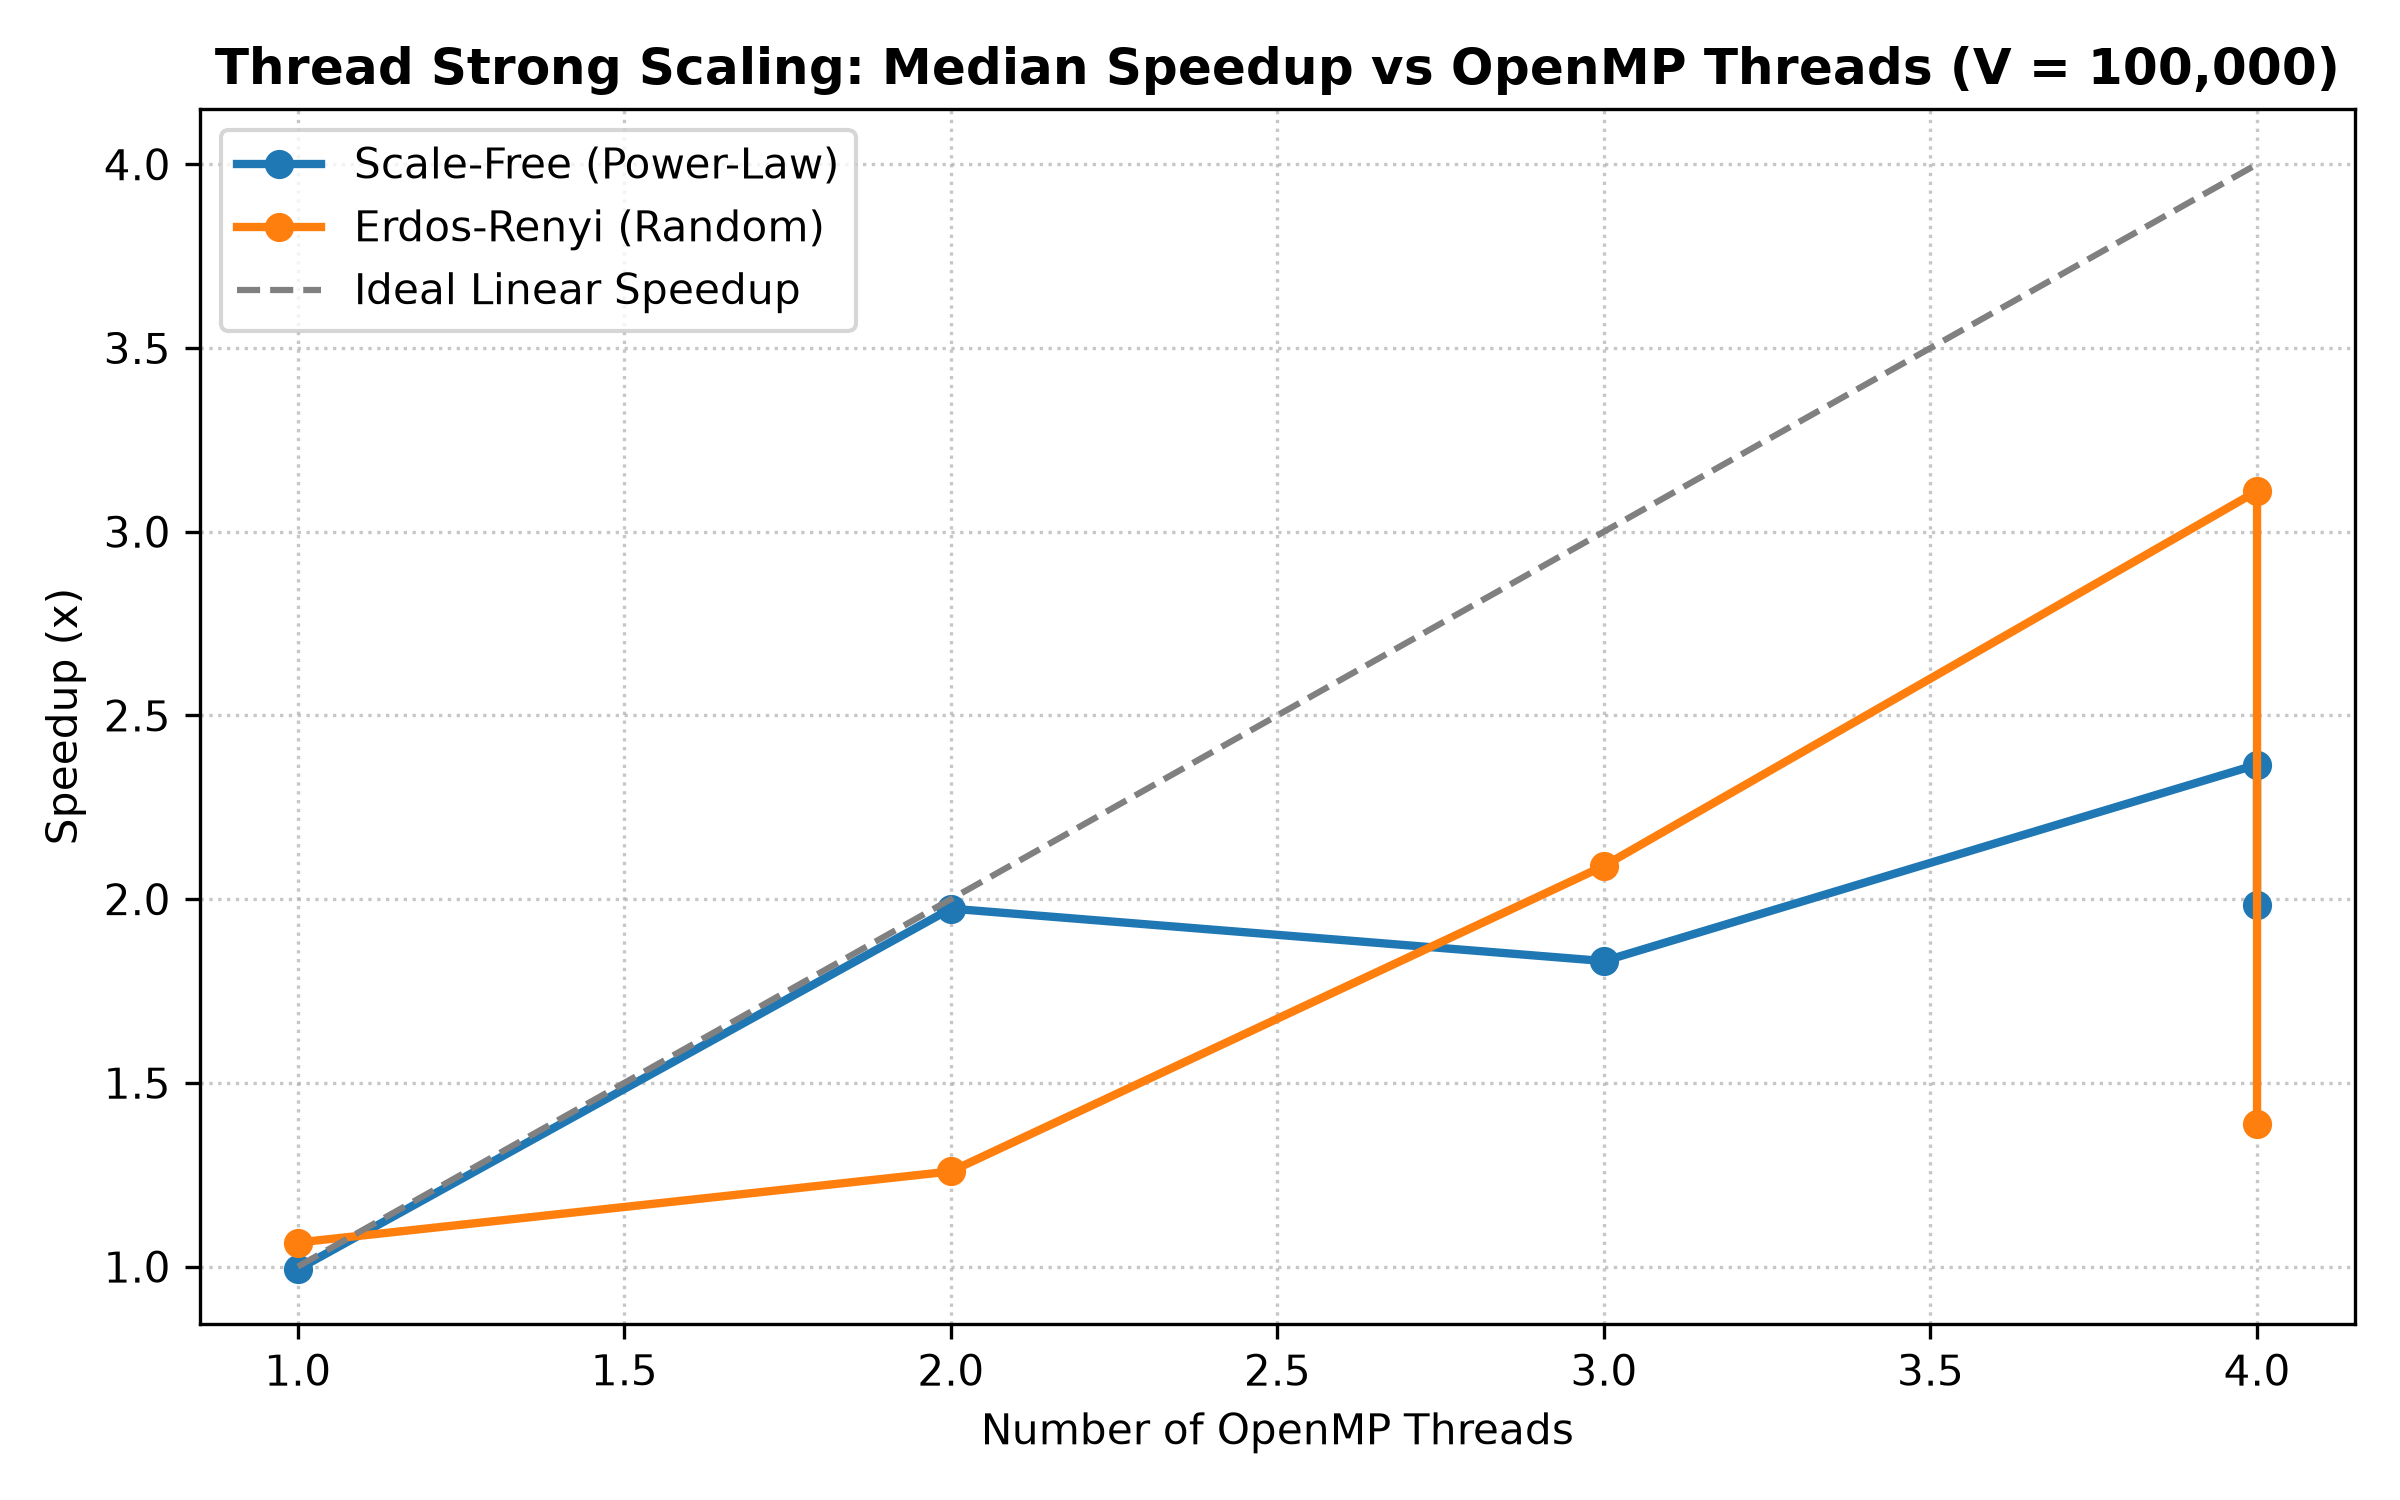
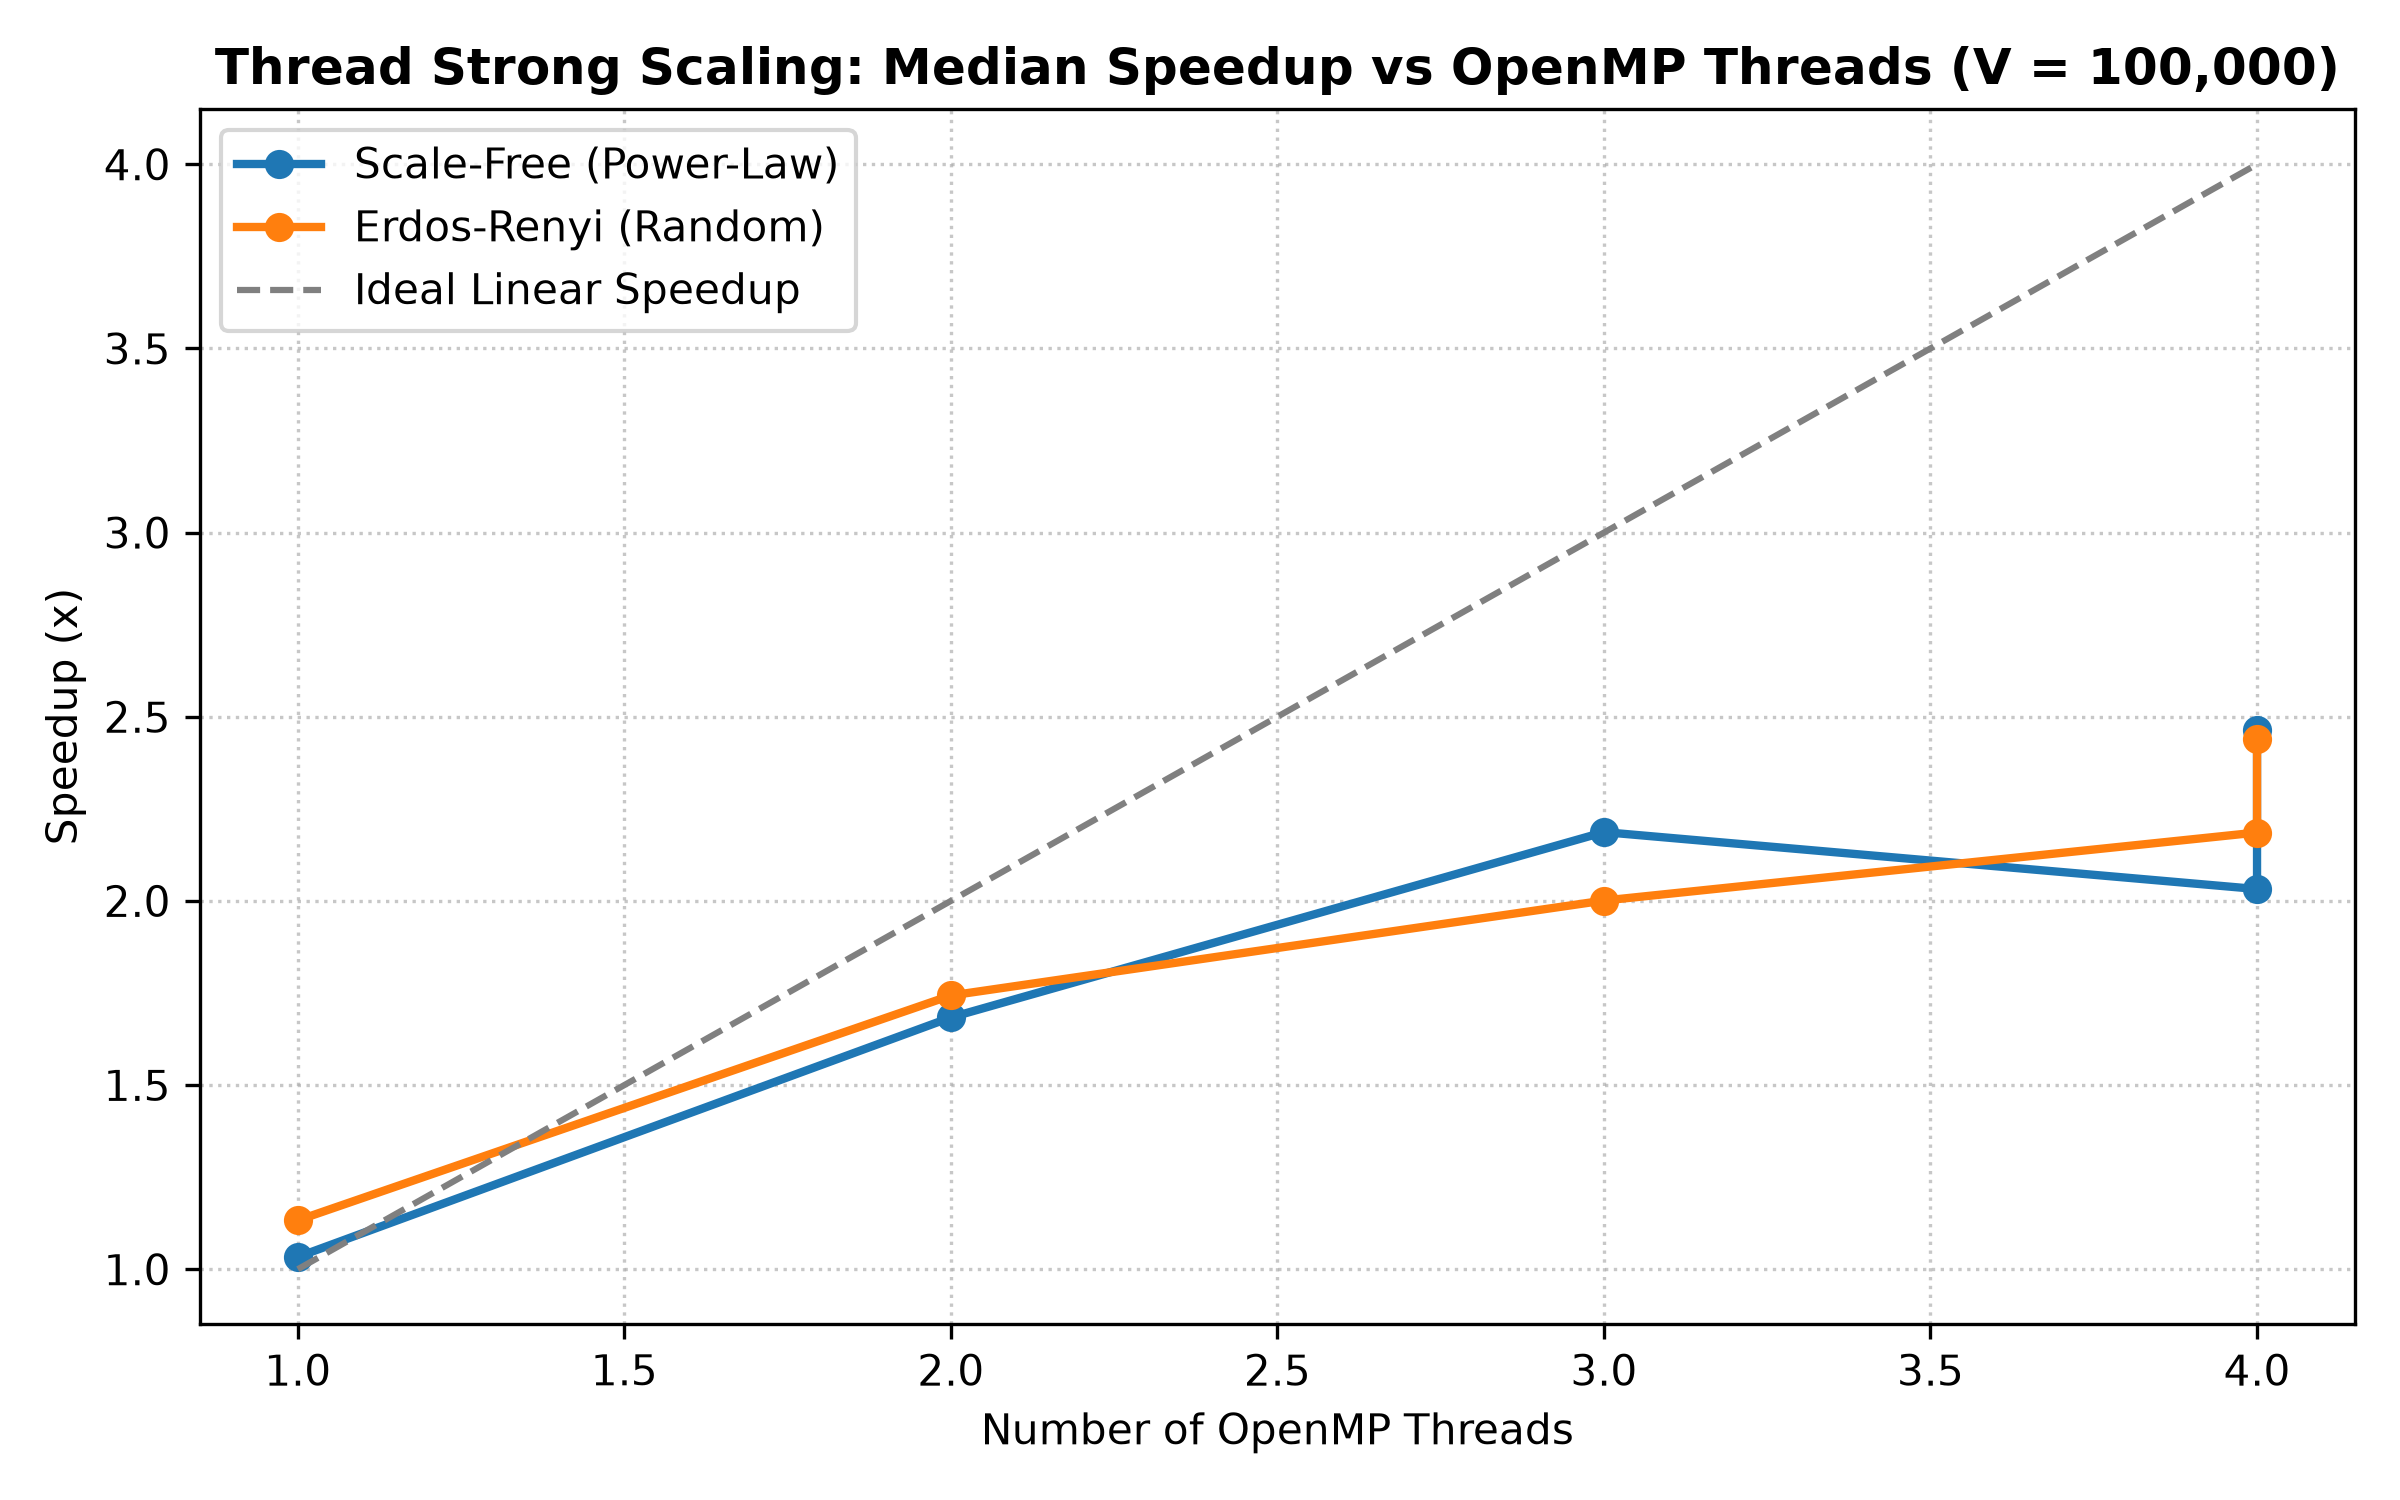
Add side-by-side sequential and parallel BFS distance output printing and enforce strict correctness gate before performance calculation

diff --git a/src/main.cpp b/src/main.cpp
@@ -10,11 +10,12 @@ void print_usage(const char* prog_name) {
     std::cout << "Usage: " << prog_name << " [options]\n"
               << "Options:\n"
               << "  -type <erdos|scale_free>  Graph type (default: scale_free)\n"
-              << "  -v <num_vertices>         Number of vertices (default: 100000)\n"
+              << "  -v <num_vertices>         Number of vertices (default: 100000, try 10 for small output)\n"
               << "  -d <avg_degree>           Average degree (default: 16)\n"
               << "  -threads <num_threads>    Number of OpenMP threads (default: max cores)\n"
               << "  -seed <seed_val>          Random seed (default: 42)\n"
               << "  -runs <num_repeats>       Number of repeated runs for median timing (default: 5)\n"
+              << "  -print                    Print full distance vectors for all vertices\n"
               << "  -test                     Run edge-case and multi-thread stress unit tests\n"
               << "  -csv                      Output single CSV line format for benchmarking\n";
 }
@@ -28,6 +29,7 @@ int main(int argc, char* argv[]) {
     int num_runs = 5;
     bool csv_mode = false;
     bool run_tests = false;
+    bool force_print = false;
 
     for (int i = 1; i < argc; ++i) {
         std::string arg = argv[i];
@@ -43,6 +45,8 @@ int main(int argc, char* argv[]) {
             seed = std::atoi(argv[++i]);
         } else if (arg == "-runs" && i + 1 < argc) {
             num_runs = std::atoi(argv[++i]);
+        } else if (arg == "-print") {
+            force_print = true;
         } else if (arg == "-test") {
             run_tests = true;
         } else if (arg == "-csv") {
@@ -58,7 +62,7 @@ int main(int argc, char* argv[]) {
         return passed ? 0 : 1;
     }
 
-    // Input validation guard against invalid parameters (-threads 0, -runs 0, negative values)
+    // Input validation guard against invalid parameters
     if (V <= 0 || avg_degree <= 0 || num_threads <= 0 || num_runs <= 0) {
         std::cerr << "Error: Invalid parameter value. -v, -d, -threads, and -runs must be positive integers (> 0).\n";
         print_usage(argv[0]);
@@ -73,12 +77,10 @@ int main(int argc, char* argv[]) {
         graph = CSRGraph::generate_scale_free(V, avg_degree / 2, seed);
     }
 
-    // Exact theoretical CSR memory footprint calculation (binary megabytes: MiB = 1024^2 bytes)
+    // Memory footprint calculations
     size_t csr_bytes = (graph.offsets.size() * sizeof(long long)) + (graph.edges.size() * sizeof(int));
     double csr_mem_mib = csr_bytes / (1024.0 * 1024.0);
 
-    // Exact theoretical Adjacency List memory footprint (std::vector<std::vector<int>>)
-    // Header per vertex = 24 bytes (vector header) + destination edges = 4 bytes per edge
     size_t adj_list_bytes = (graph.num_vertices * sizeof(std::vector<int>)) + (graph.num_edges * sizeof(int));
     double adj_list_mem_mib = adj_list_bytes / (1024.0 * 1024.0);
     double exact_mem_savings_pct = (1.0 - (static_cast<double>(csr_bytes) / static_cast<double>(adj_list_bytes))) * 100.0;
@@ -98,10 +100,59 @@ int main(int argc, char* argv[]) {
     // 3. Run OpenMP Parallel BFS (1 Warm-up + N repeats -> Verifies ALL runs against sequential baseline)
     BFSResult par_res = run_bfs_with_median_timing(graph, start_node, true, num_threads, num_runs);
 
-    // 4. Verify Correctness across ALL runs
-    bool is_correct = par_res.all_runs_verified;
+    // 4. STRICT CORRECTNESS GATE: Check if sequential and parallel outputs match 100% identically
+    bool is_correct = par_res.all_runs_verified && verify_bfs_results(seq_res, par_res);
 
-    // Calculate metrics
+    if (!csv_mode) {
+        std::cout << "========================================================\n";
+        std::cout << "        LARGE-SCALE GRAPH EXPLORATION (OpenMP BFS)      \n";
+        std::cout << "========================================================\n";
+        std::cout << " Graph Type         : " << graph_type << "\n";
+        std::cout << " Vertices (V)       : " << V << "\n";
+        std::cout << " Edges (E)          : " << graph.num_edges << "\n";
+        std::cout << " CSR Memory         : " << std::fixed << std::setprecision(2) << csr_mem_mib << " MiB\n";
+        std::cout << " AdjList Memory     : " << adj_list_mem_mib << " MiB\n";
+        std::cout << " CSR Memory Savings : " << std::setprecision(1) << exact_mem_savings_pct << "% reduction\n";
+        std::cout << " Start Vertex       : " << start_node << "\n";
+        std::cout << " OpenMP Threads     : " << num_threads << "\n";
+        std::cout << " Benchmark Runs     : 1 Warm-up + " << num_runs << " Repeats (Median Time)\n";
+        std::cout << "--------------------------------------------------------\n";
+        
+        // Show BFS distance outputs for sequential and parallel
+        int print_count = (V <= 20 || force_print) ? V : 10;
+        std::cout << " Sequential BFS Distances (first " << print_count << " vertices):\n  [";
+        for (int i = 0; i < print_count; ++i) {
+            std::cout << seq_res.distance[i] << (i + 1 < print_count ? ", " : "");
+        }
+        if (V > print_count) std::cout << ", ...";
+        std::cout << "]\n";
+
+        std::cout << " Parallel BFS Distances   (first " << print_count << " vertices):\n  [";
+        for (int i = 0; i < print_count; ++i) {
+            std::cout << par_res.distance[i] << (i + 1 < print_count ? ", " : "");
+        }
+        if (V > print_count) std::cout << ", ...";
+        std::cout << "]\n";
+        std::cout << "--------------------------------------------------------\n";
+
+        // Correctness Gate Check
+        if (!is_correct) {
+            std::cerr << " [CORRECTNESS CHECK]: [FAILED] Mismatch detected between Sequential and Parallel BFS!\n";
+            std::cerr << " Halting execution. Performance calculations aborted due to correctness failure.\n";
+            std::cout << "========================================================\n";
+            return 1;
+        }
+
+        std::cout << " [CORRECTNESS CHECK]: [PASSED] (Sequential & Parallel outputs match 100% identically!)\n";
+        std::cout << "--------------------------------------------------------\n";
+    }
+
+    // If correctness check failed, do NOT proceed with speedup calculation
+    if (!is_correct) {
+        return 1;
+    }
+
+    // 5. Calculate performance metrics ONLY AFTER correctness is verified
     double speedup = (par_res.execution_time_ms > 0) ? (seq_res.execution_time_ms / par_res.execution_time_ms) : 1.0;
     double efficiency = speedup / num_threads;
 
@@ -121,28 +172,14 @@ int main(int argc, char* argv[]) {
                   << efficiency << ","
                   << seq_res.mteps << ","
                   << par_res.mteps << ","
-                  << (is_correct ? "PASSED" : "FAILED") << "\n";
+                  << "PASSED\n";
     } else {
-        std::cout << "========================================================\n";
-        std::cout << "        LARGE-SCALE GRAPH EXPLORATION (OpenMP BFS)      \n";
-        std::cout << "========================================================\n";
-        std::cout << " Graph Type         : " << graph_type << "\n";
-        std::cout << " Vertices (V)       : " << V << "\n";
-        std::cout << " Edges (E)          : " << graph.num_edges << "\n";
-        std::cout << " CSR Memory         : " << std::fixed << std::setprecision(2) << csr_mem_mib << " MiB\n";
-        std::cout << " AdjList Memory     : " << adj_list_mem_mib << " MiB\n";
-        std::cout << " CSR Memory Savings : " << std::setprecision(1) << exact_mem_savings_pct << "% reduction\n";
-        std::cout << " Start Vertex       : " << start_node << "\n";
-        std::cout << " OpenMP Threads     : " << num_threads << "\n";
-        std::cout << " Benchmark Runs     : 1 Warm-up + " << num_runs << " Repeats (Median Time)\n";
-        std::cout << "--------------------------------------------------------\n";
         std::cout << " Sequential Time    : " << std::setprecision(3) << seq_res.execution_time_ms << " ms (" << seq_res.mteps << " MTEPS)\n";
         std::cout << " Parallel Time      : " << par_res.execution_time_ms << " ms (" << par_res.mteps << " MTEPS)\n";
         std::cout << " Speedup            : " << std::setprecision(2) << speedup << "x\n";
         std::cout << " Parallel Efficiency: " << std::setprecision(2) << (efficiency * 100.0) << "%\n";
-        std::cout << " Correctness Check  : " << (is_correct ? "[PASSED] (100% of parallel runs matched sequential output!)" : "[FAILED]") << "\n";
         std::cout << "========================================================\n";
     }
 
-    return is_correct ? 0 : 1;
+    return 0;
 }

diff --git a/README.md b/README.md
@@ -13,7 +13,7 @@ This project delivers a high-performance C++ & Python computational framework:
 2. Features **Erdős-Rényi (Uniform)** and **Scale-Free / Power-Law (Barabási-Albert)** synthetic graph generators up to **1,000,000 vertices**.
 3. Implements **Level-Synchronous Parallel BFS** using **OpenMP**, dynamic chunk load balancing (`#pragma omp for schedule(dynamic, 512)`), thread-local frontier buffering, and atomic Compare-And-Swap (CAS) state claims.
 4. Uses a rigorous benchmark methodology (1 un-timed warm-up run + 5 repeated executions taking the **median** time) measuring Traversed Edges Per Second (**MTEPS**), Speedup ($S$), Parallel Efficiency ($E$), and scaling.
-5. **Every benchmark run is checked element-wise against the sequential result**, supported by an edge-case and 2/4/8-thread race condition stress unit testing suite.
+5. **Displays Sequential and Parallel BFS distance outputs side-by-side** and enforces a **Strict Correctness Gate**: performance calculations and speedup metrics are evaluated **ONLY AFTER** sequential and parallel distance vectors are verified to match 100% identically element-wise.
 
 ---
 
@@ -61,7 +61,7 @@ daa_prj/
 │   ├── graph.hpp               # CSR Data structure & Erdos-Renyi / Scale-Free graph generators
 │   ├── bfs.hpp                 # BFS Result struct, sequential & OpenMP parallel BFS, stress tests
 │   ├── bfs.cpp                 # OpenMP Level-Synchronous BFS, atomic CAS claim, median timing runner
-│   └── main.cpp                # CLI entry point, edge-case test runner, and CSV output driver
+│   └── main.cpp                # CLI entry point, BFS distance output printer, and correctness gate driver
 ├── scripts/
 │   └── benchmark.py            # Rigorous 5-repeat median benchmark driver and matplotlib plot generator
 ├── results/
@@ -95,16 +95,19 @@ g++ -O3 -fopenmp src/main.cpp src/bfs.cpp -o main
 
 ### Execution Commands
 ```powershell
-# 1. Run Unit & 2/4/8-Thread Race Condition Stress Test Suite
-.\main.exe -test
+# 1. Small Graph CLI Execution (V=10 to view full sequential & parallel BFS distance arrays)
+.\main.exe -v 10 -threads 4
 
-# 2. Run Single Execution CLI (100k Vertices, 4 Threads, Median of 5 Runs)
+# 2. Large Graph CLI Execution (100k Vertices, 4 Threads, Median of 5 Runs)
 .\main.exe -type scale_free -v 100000 -d 16 -threads 4 -runs 5
 
-# 3. Test Parameter Guard against invalid inputs (returns error and exits)
-.\main.exe -threads 0
+# 3. Print full distance array for any graph size (-print flag)
+.\main.exe -v 20 -print
 
-# 4. Run Automated Benchmark Suite
+# 4. Run Unit & 2/4/8-Thread Race Condition Stress Test Suite
+.\main.exe -test
+
+# 5. Run Automated Benchmark Suite
 python scripts/benchmark.py
 ```
 
